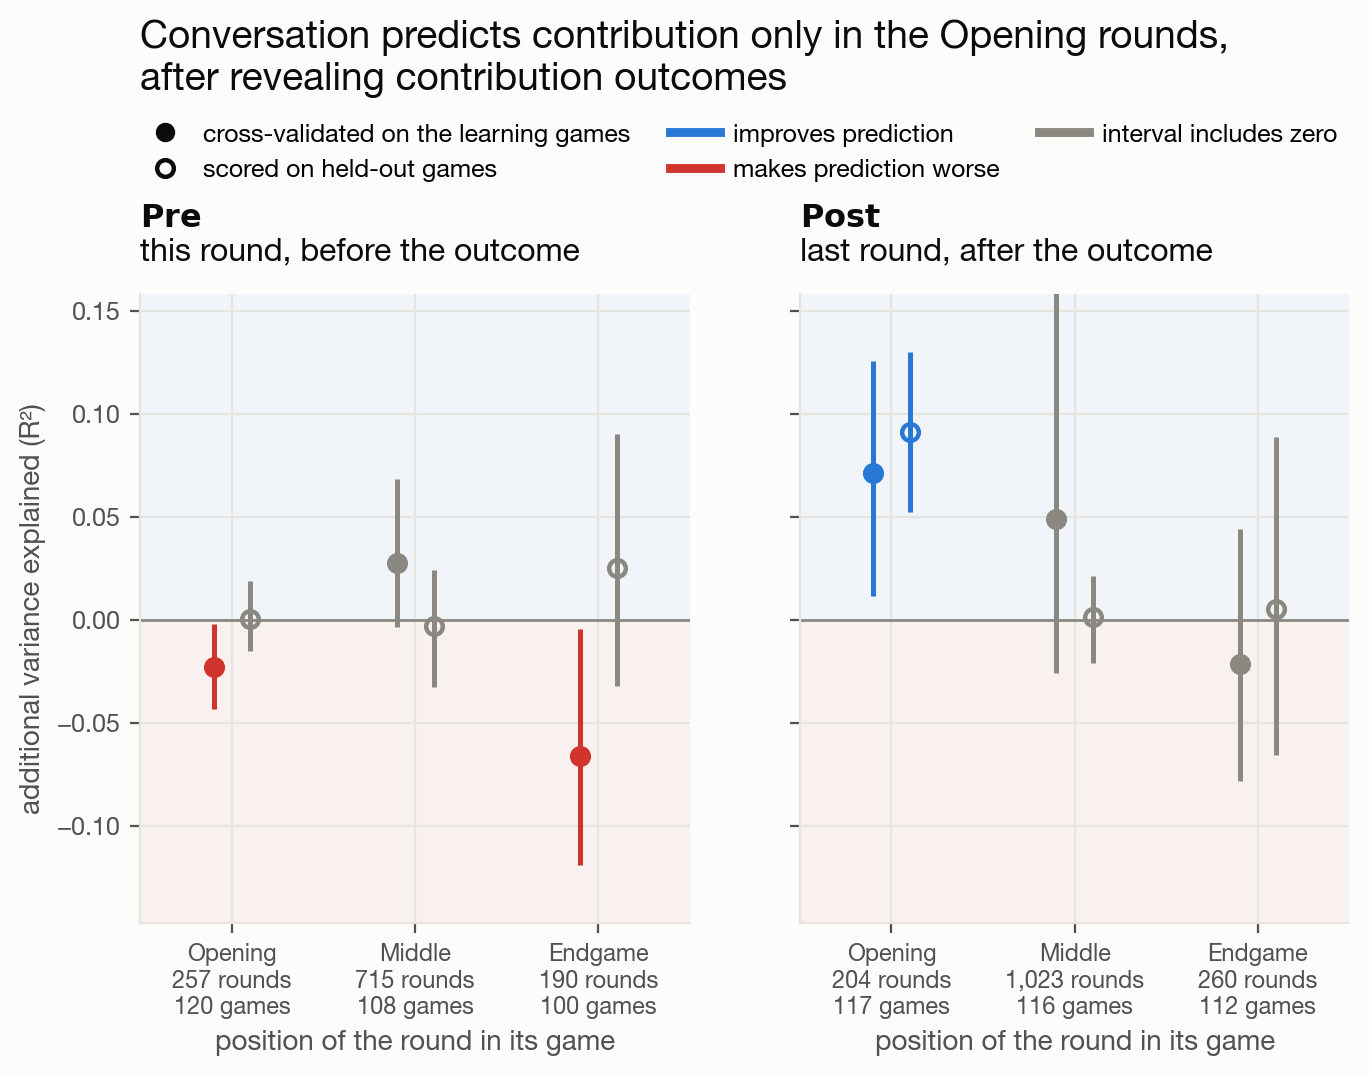
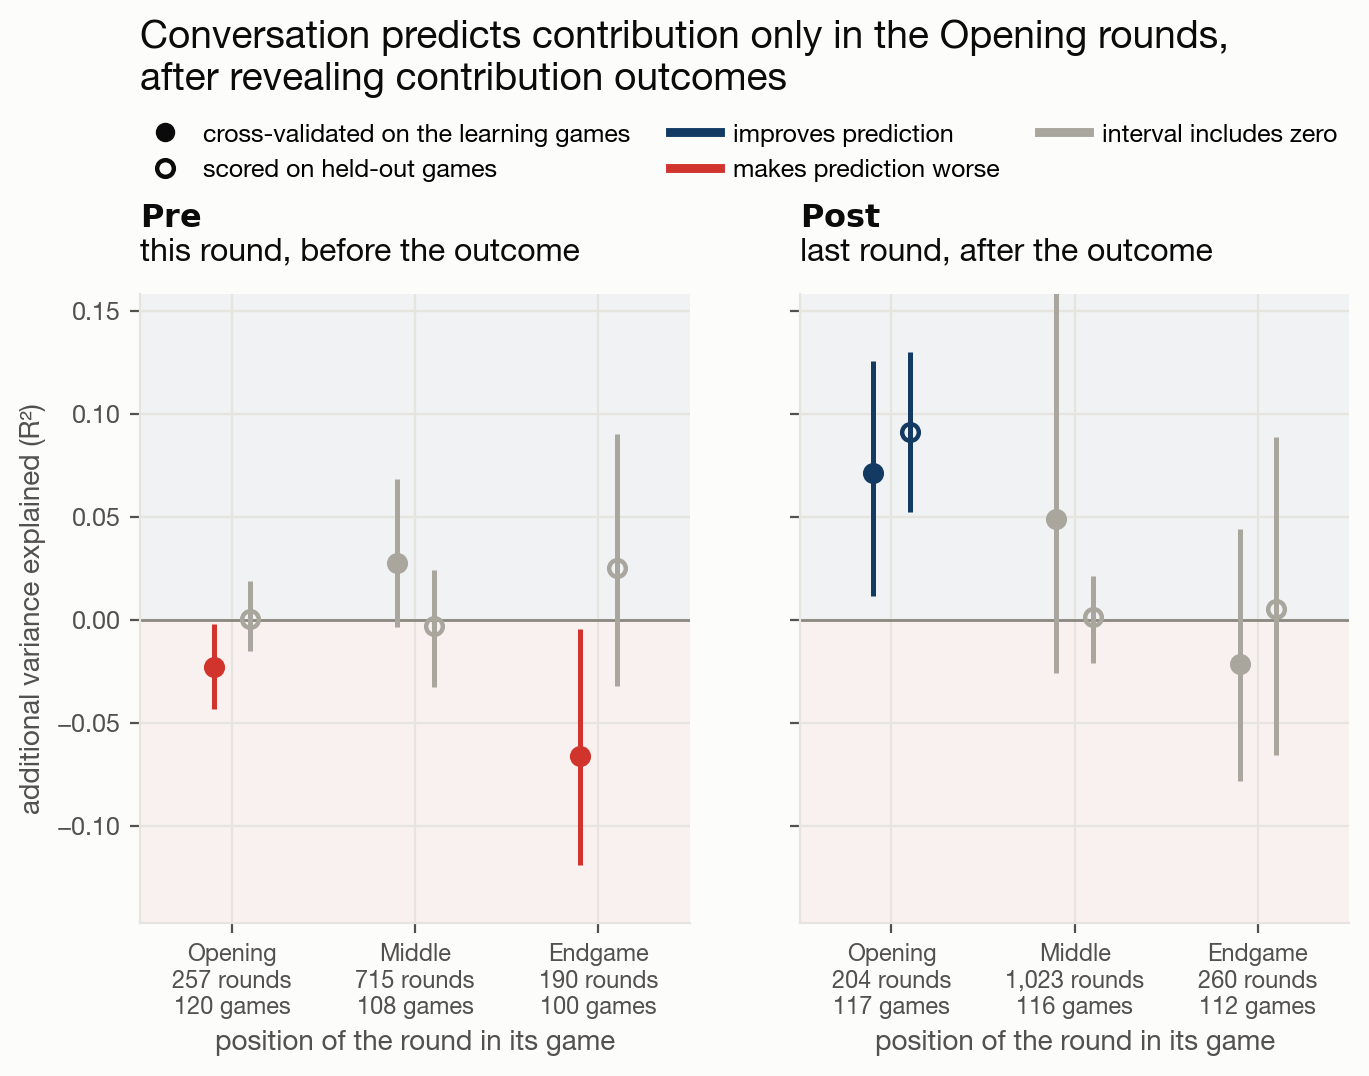
Update figures to be prettier and b/w friendly

diff --git a/scripts/13_window_figures.py b/scripts/13_window_figures.py
@@ -107,7 +107,9 @@ def semantic_grouping_of(feature):
 
 
 # The toolkit's categories, in a fixed order with fixed colours.
-BETTER, WORSE = style.BLUE, "#d0342c"
+# Three tones of clearly different lightness, so the three states are still
+# distinguishable printed in black and white: dark blue, mid red, light grey.
+BETTER, WORSE, NEUTRAL = style.BLUE_DARK, "#d0342c", style.GRAY_LIGHT
 # Figure 2 encodes something different from figure 1 - the direction of a feature's
 # effect, not whether the block helped prediction - so it gets its own pair of
 # colours rather than reusing blue and red for a second meaning.
@@ -228,7 +230,7 @@ def legend_estimate(ax):
             label="improves prediction")
     ax.plot([], [], "-", color=WORSE, linewidth=3.2,
             label="makes prediction worse")
-    ax.plot([], [], "-", color=style.INK_MUTED, linewidth=3.2,
+    ax.plot([], [], "-", color=NEUTRAL, linewidth=3.2,
             label="interval includes zero")
 
 
@@ -298,7 +300,7 @@ def fig_c1_when(kind="elastic net", controls="rules+timing",
                 elif r[hi_c] < 0:
                     colour = WORSE
                 else:
-                    colour = style.INK_MUTED
+                    colour = NEUTRAL
                 ax.plot([i + dx, i + dx], [r[lo_c], r[hi_c]], color=colour,
                         linewidth=1.8, solid_capstyle="butt", zorder=3)
                 ax.plot([i + dx], [r[mid_c]], "o", markersize=6, color=colour,
@@ -461,8 +463,7 @@ Opening; the panels therefore carry different features, and different numbers of
 them, because the windows found different things. Filled marks replicate in \
 validation: significant after correction on the learning games and significant \
 with the same sign on held-out games. Opening is the first three rounds of a game, \
-Endgame the last three. Green marks a feature that predicts more contribution in \
-the Opening, orange one that predicts less. Vertical bars are 95% intervals from a regression of the \
+Endgame the last three. {colour_key} Vertical bars are 95% intervals from a regression of the \
 outcome on that feature alone plus the game's rules and the round's position, with \
 standard errors clustered by game; features are spread slightly around each time \
 period so their intervals stay legible.
@@ -527,6 +528,12 @@ def fig_c3_across_stages(top_n=N_TRACKS, blocks=MAIN_BLOCKS, sample=MAIN_SAMPLE,
                            [PP * by_stage.loc[st, "ci_high_learn"] for st in stages]))
         if tracks:
             by_block[block] = tracks
+
+    # Where every surviving feature predicts more contribution, the colour that
+    # would mark the opposite direction is left out of the legend and the caption
+    # rather than named for marks the figure does not contain.
+    any_less = any(values[0] <= 0 for tracks in by_block.values()
+                   for _, values, _, _, _ in tracks)
 
     drawn = [b for b in blocks if b in by_block]
     omitted = [b for b in blocks if b not in by_block]
@@ -603,8 +610,9 @@ def fig_c3_across_stages(top_n=N_TRACKS, blocks=MAIN_BLOCKS, sample=MAIN_SAMPLE,
                     linewidth=1.2, label="does not replicate in validation")
     axes[0].plot([], [], "-", color=MORE, linewidth=3.2,
                  label="predicts more contribution")
-    axes[0].plot([], [], "-", color=LESS, linewidth=3.2,
-                 label="predicts less contribution")
+    if any_less:
+        axes[0].plot([], [], "-", color=LESS, linewidth=3.2,
+                     label="predicts less contribution")
 
     fig.subplots_adjust(wspace=0.72, right=0.86)
     style.header(
@@ -617,8 +625,13 @@ def fig_c3_across_stages(top_n=N_TRACKS, blocks=MAIN_BLOCKS, sample=MAIN_SAMPLE,
         note = (f" {names} {'is' if len(omitted) == 1 else 'are'} not shown: not "
                 f"one of its features survives false-discovery correction in the "
                 f"opening rounds, so there is nothing to follow across the game.")
+    colour_key = ("Green marks a feature that predicts more contribution in the "
+                  "Opening, orange one that predicts less."
+                  if any_less else
+                  "Green marks a feature that predicts more contribution.")
     (out_dir / f"{stem}_caption.txt").write_text(
-        CAPTION_C3.rstrip() + note + "\n" + sample_line(sample) + "\n")
+        CAPTION_C3.format(colour_key=colour_key).rstrip() + note + "\n"
+        + sample_line(sample) + "\n")
     out = out_dir / f"{stem}.png"
     fig.savefig(out)
     plt.close(fig)

diff --git a/scripts/14_descriptive_figures.py b/scripts/14_descriptive_figures.py
@@ -54,6 +54,10 @@ EXTRA_CONTRASTS = [("silent", "spoke")]
 # panel would read as a different colour from the same bar in another.
 BAR_ALPHA = 0.62
 
+# The two splits are told apart by lightness as well as by hue, so the panels stay
+# readable printed in black and white: the learning games are the darker series.
+SPLIT_COLOR = {"learn": style.BLUE_DARK, "val": style.GREEN_LIGHT}
+
 # Contribution is a share of the endowment; it is reported throughout the case
 # study in percent of the endowment, and differences between groups in percentage
 # points, so the game means are scaled by 100 as soon as they are read.
@@ -210,7 +214,7 @@ def fig_corpus():
     fig, axes = plt.subplots(1, 3, figsize=(14.4, 4.6))
 
     medians = {}
-    for split, colour in zip(SPLITS, (style.BLUE, style.AQUA)):
+    for split, colour in zip(SPLITS, (SPLIT_COLOR["learn"], SPLIT_COLOR["val"])):
         rounds, chat = load(split)
         g = game_table(rounds, chat)
 
@@ -241,8 +245,8 @@ def fig_corpus():
 
     # The two medians are a round apart, so their labels are pushed to opposite
     # sides of their own line rather than centred, where they would overlap.
-    for split, colour, ha, dx in (("learn", style.BLUE, "left", 4),
-                                  ("val", style.AQUA, "right", -4)):
+    for split, colour, ha, dx in (("learn", SPLIT_COLOR["learn"], "left", 4),
+                                  ("val", SPLIT_COLOR["val"], "right", -4)):
         m = medians[split]
         axes[0].axvline(m, color=colour, linestyle=(0, (4, 2)), linewidth=1.6,
                         zorder=4)

diff --git a/scripts/style.py b/scripts/style.py
@@ -40,6 +40,10 @@ import numpy as np
 # Categorical slots, assigned in fixed order and never cycled.
 BLUE, ORANGE, AQUA, YELLOW = "#2a78d6", "#eb6834", "#1baf7a", "#eda100"
 MAGENTA, GREEN, VIOLET = "#e87ba4", "#008300", "#4a3aa7"
+# Print-legibility variants. A figure that separates two or three series only by
+# hue is unreadable on a black-and-white printer, so the series that need to
+# survive that pass are drawn in tones of clearly different lightness.
+BLUE_DARK, GREEN_LIGHT, GRAY_LIGHT = "#123a63", "#86d9b0", "#a8a69d"
 SURFACE = "#fcfcfb"
 INK, INK_2, INK_MUTED = "#0b0b0b", "#52514e", "#8a8880"
 GRID = "#e5e4df"
